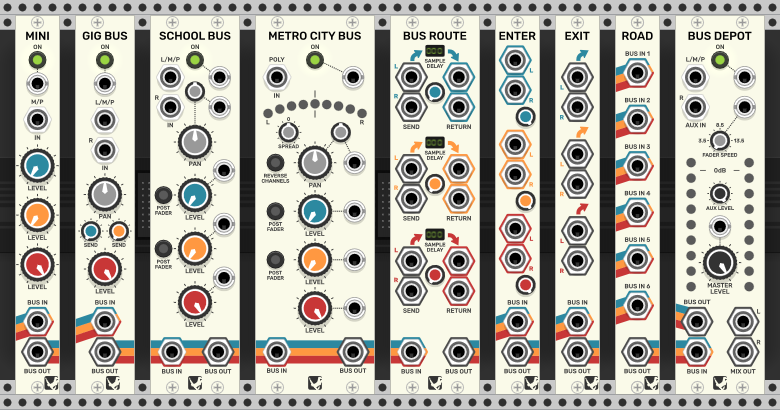
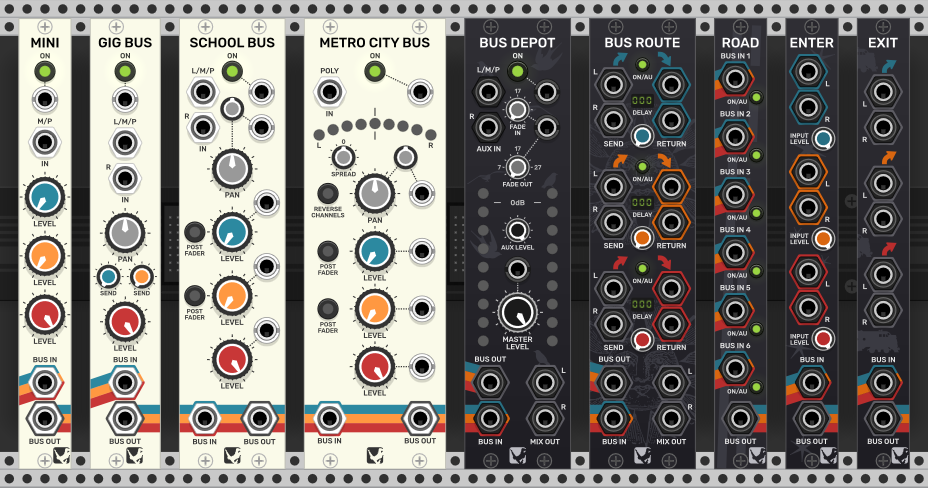
update README, reorder modules, and move to 1.0.5

diff --git a/src/plugin.cpp b/src/plugin.cpp
@@ -13,11 +13,11 @@ void init(Plugin *p) {
 	p->addModel(modelGigBus);
 	p->addModel(modelSchoolBus);
 	p->addModel(modelMetroCityBus);
+	p->addModel(modelBusDepot);
 	p->addModel(modelBusRoute);
+	p->addModel(modelRoad);
 	p->addModel(modelEnterBus);
 	p->addModel(modelExitBus);
-	p->addModel(modelRoad);
-	p->addModel(modelBusDepot);
 	// Any other plugin initialization may go here.
 	// As an alternative, consider lazy-loading assets and lookup tables when your module is created to reduce startup times of Rack.
 }

diff --git a/src/plugin.hpp b/src/plugin.hpp
@@ -12,8 +12,8 @@ extern Model *modelMiniBus;
 extern Model *modelGigBus;
 extern Model *modelSchoolBus;
 extern Model *modelMetroCityBus;
+extern Model *modelBusDepot;
 extern Model *modelBusRoute;
+extern Model *modelRoad;
 extern Model *modelEnterBus;
 extern Model *modelExitBus;
-extern Model *modelRoad;
-extern Model *modelBusDepot;

diff --git a/README.md b/README.md
@@ -1,11 +1,10 @@
 # Glue the Giant's Modular Bus Mixers for VCV Rack
 
-To use these mixers, simply connect them together with the BUS IN and BUS OUT ports.
+Build your own mixer by connecting these modules together with the BUS IN and BUS OUT ports.
 The audio is routed along three stereo buses: red, orange, and blue.
-The Bus Depot module can create mix groups and provide a final stereo mix out.
 
 The bus design makes it easy to patch together modules while creating simple or complex routing.
-With features like pop filters, polyphonic stereo spread, fade automation, mix groups, and integrated latency compensation, they're also fun to use.
+With features like pop filters, fade automation, send effects, mix groups, polyphonic stereo spread, effect and bus auditioning, and integrated latency compensation, they can also help you make your next patch sound amazing.
 
 ![Modular bus mixers from Glue the Giant](https://github.com/gluethegiant/gtg-rack/blob/master/design/screenshot.png)
 
@@ -17,18 +16,18 @@ A [User's Guide](https://github.com/gluethegiant/gtg-rack/wiki) for these module
 
 "Glue the Giant" is the name of a band and a software developer.
 Do your best to not steal it (we know it's cool).
-The designs under the res/ and designs/ directories help to give these modules a unique look and are automatically copyrighted (c) 2019 in some jurisdictions.
+The visual designs under the res/ and designs/ directories help to give these modules a unique look and are automatically copyrighted (c) 2019 in some jurisdictions.
 Try to not copy them too closely.
 All the code is released to use under the GPL 3 license and above.
 
 ## Acknowledgments 
 
 Thanks to Andrew Belt for accepting a tiny page of code for a library that VCV Rack uses.
-That encouraged the coding of these modules.
+That encouraged the creation of these modules.
 
 Thanks to all the other Rack coders, especially those who share their code.
 You are too numerous to thank individually, but I tried to star all of your repos and have started to include acknowledgments in the code.
-Thanks for the early encouragement from users, like Aria_Salvatrice, dag2099, and chaircrusher, who displayed the use of the modular bus mixers in published songs and videos.
+Thanks for the early encouragement from users, like Aria_Salvatrice, dag2099, browneditor, and chaircrusher, who displayed the use of the modular bus mixers in published songs and videos.
 While these modules are still a work in progress, that early encouragement made me want to make them more feature complete with better code under the hood.
 Thanks to rsmus7 for beta testing.
 Thanks to Omri Cohen for the videos that helped inspire these modules.
@@ -39,6 +38,18 @@ Finally, thanks always to Rebecca.
 To build these rack modules, see the official [VCV Rack documentation](https://vcvrack.com/manual/Building.html).
 
 ## Release Notes
+
+v. 1.0.5 The Audition Release (November 11, 2019)
+
+- Fade in automation and three fade modulation modes added to Bus Depot
+- Bus Depot fade automation time increased to 34 seconds
+- Bus Route includes on/audition buttons to easily audition or bypass send effects
+- No need to connect cables for pass through with Bus Depot (accomplished with on button)
+- Bus Route now provides a stereo mix out (easier to add fade automation before send effects and easier to add limiters or other mastering effects and visuals after Bus Route)
+- Road now includes on/audition buttons to quickly work with mix groups (with or without a Bus Depot) and to audition (solo) groups and individual mixers (thanks to browneditor for the push to implement this feature)
+- All on/audition buttons on Road and Bus Route are click free for live use
+- Filters added to post send buttons on School Bus Mixer and Metro City Bus Mixer to remove clicks during live use
+- Minor visual improvements to some panels
 
 v. 1.0.4 The Halloween Release (October 31, 2019)
 
